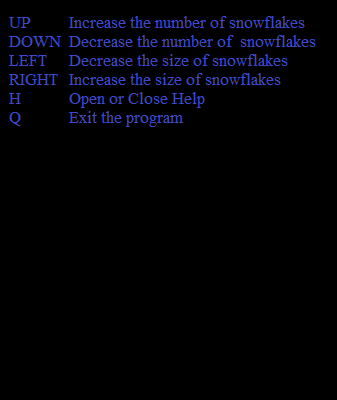
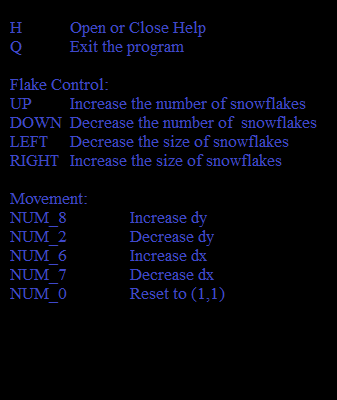
added control to change the movement of the snow

Changed region(s): [[0.0297, 0.03, 0.9496, 0.42], [0.3858, 0.51, 0.6825, 0.75], [0.0297, 0.48, 0.2671, 0.75]]

diff --git a/SnowSim.py b/SnowSim.py
@@ -16,6 +16,9 @@ DisplayHelp = True
 SIZE = [400, 400]
 SnowSize = 5
 
+DY = 1
+DX = 1
+
 screen = pygame.display.set_mode((MyScreenLength, MyScreenWidth), pygame.FULLSCREEN)
 pygame.display.set_caption("Snow Animation")
 
@@ -24,15 +27,14 @@ help_image = pygame.image.load("h2.png").convert()
 # Create an empty array
 snow_list = []
 
-# Loop 50 times and add a snow flake in a random x,y position
-for i in range(100):
+for i in range(500):
     x = random.randrange(0, MyScreenLength)
     y = random.randrange(0, MyScreenWidth)
     snow_list.append([x, y])
 
 clock = pygame.time.Clock()
 
-# Loop until the user clicks the close button.
+# Loop until the user press q
 done = False
 while not done:
 
@@ -40,31 +42,42 @@ while not done:
         if event.type == pygame.QUIT:  # If user clicked close
             done = True  # Flag that we are done so we exit this loop
         elif event.type == pygame.KEYDOWN:
-            if pygame.key.get_pressed()[pygame.K_UP]:
-                x = random.randrange(0, MyScreenLength)
-                y = random.randrange(0, MyScreenWidth)
-                snow_list.append([x, y])
-            if pygame.key.get_pressed()[pygame.K_DOWN]:
-                snow_list.pop(random.randrange(len(snow_list)))
-            if pygame.key.get_pressed()[pygame.K_LEFT]:
+            if pygame.key.get_pressed()[pygame.K_q]:
+                done = True
+            elif pygame.key.get_pressed()[pygame.K_UP]:
+                for b in range(10):
+                    x = random.randrange(0, MyScreenLength)
+                    y = random.randrange(0, MyScreenWidth)
+                    snow_list.append([x, y])
+            elif pygame.key.get_pressed()[pygame.K_DOWN]:
+                if len(snow_list) > 20:
+                    for c in range(10):
+                        snow_list.pop(random.randrange(len(snow_list)))
+            elif pygame.key.get_pressed()[pygame.K_LEFT]:
                 if SnowSize > 1:
                     SnowSize -= 1
-            if pygame.key.get_pressed()[pygame.K_RIGHT]:
+            elif pygame.key.get_pressed()[pygame.K_RIGHT]:
                 SnowSize += 1
-            if pygame.key.get_pressed()[pygame.K_h]:
+            elif pygame.key.get_pressed()[pygame.K_h]:
                 if DisplayHelp:
                     help_image = pygame.image.load("h2.png").convert()
                     DisplayHelp = False
                 else:
                     help_image = pygame.image.load("h1.png").convert()
                     DisplayHelp = True
-            if pygame.key.get_pressed()[pygame.K_q]:
-                done = True
+            elif pygame.key.get_pressed()[pygame.K_KP8]:
+                DY += 1
+            elif pygame.key.get_pressed()[pygame.K_KP2]:
+                DY -= 1
+            elif pygame.key.get_pressed()[pygame.K_KP6]:
+                DX += 1
+            elif pygame.key.get_pressed()[pygame.K_KP4]:
+                DX -= 1
+            elif pygame.key.get_pressed()[pygame.K_KP0]:
+                DX = 1
+                DY = 1
 
-    # Set the screen background
-    # screen.fill(BLACK)
     screen.blit(background_image, [0, 0])
-    screen.blit(help_image, [1500, 50])
 
     # Process each snow flake in the list
     for i in range(len(snow_list)):
@@ -72,18 +85,29 @@ while not done:
         # Draw the snow flake
         pygame.draw.circle(screen, WHITE, snow_list[i], SnowSize)
 
-        # Move the snow flake down one pixel
-        snow_list[i][1] += 1
+        # Move the snow flake based on dx and dy
+        snow_list[i][0] += DX
+        snow_list[i][1] += DY
 
-        # reset the snow if complete left the screen
+        # reset the snow if it completely left the screen
         if snow_list[i][1] > MyScreenWidth + SnowSize:
-            # Reset it just above the top
+            # Reset it some distance above the top
             y = random.randrange(-10*SnowSize, -2*SnowSize)
             snow_list[i][1] = y
             # Give it a new x position
             x = random.randrange(0, MyScreenLength)
             snow_list[i][0] = x
 
-    # Go ahead and update the screen with what we've drawn.
+        if snow_list[i][0] > MyScreenLength + SnowSize:
+            # Reset it some distance left the top
+            x = random.randrange(-10*SnowSize, -2*SnowSize)
+            snow_list[i][0] = x
+            # Give it a new x position
+            y = random.randrange(0, MyScreenWidth)
+            snow_list[i][1] = y
+
+    screen.blit(help_image, [1500, 50])
+
+    # Yo update
     pygame.display.flip()
-    clock.tick(20)
+    clock.tick(60)
